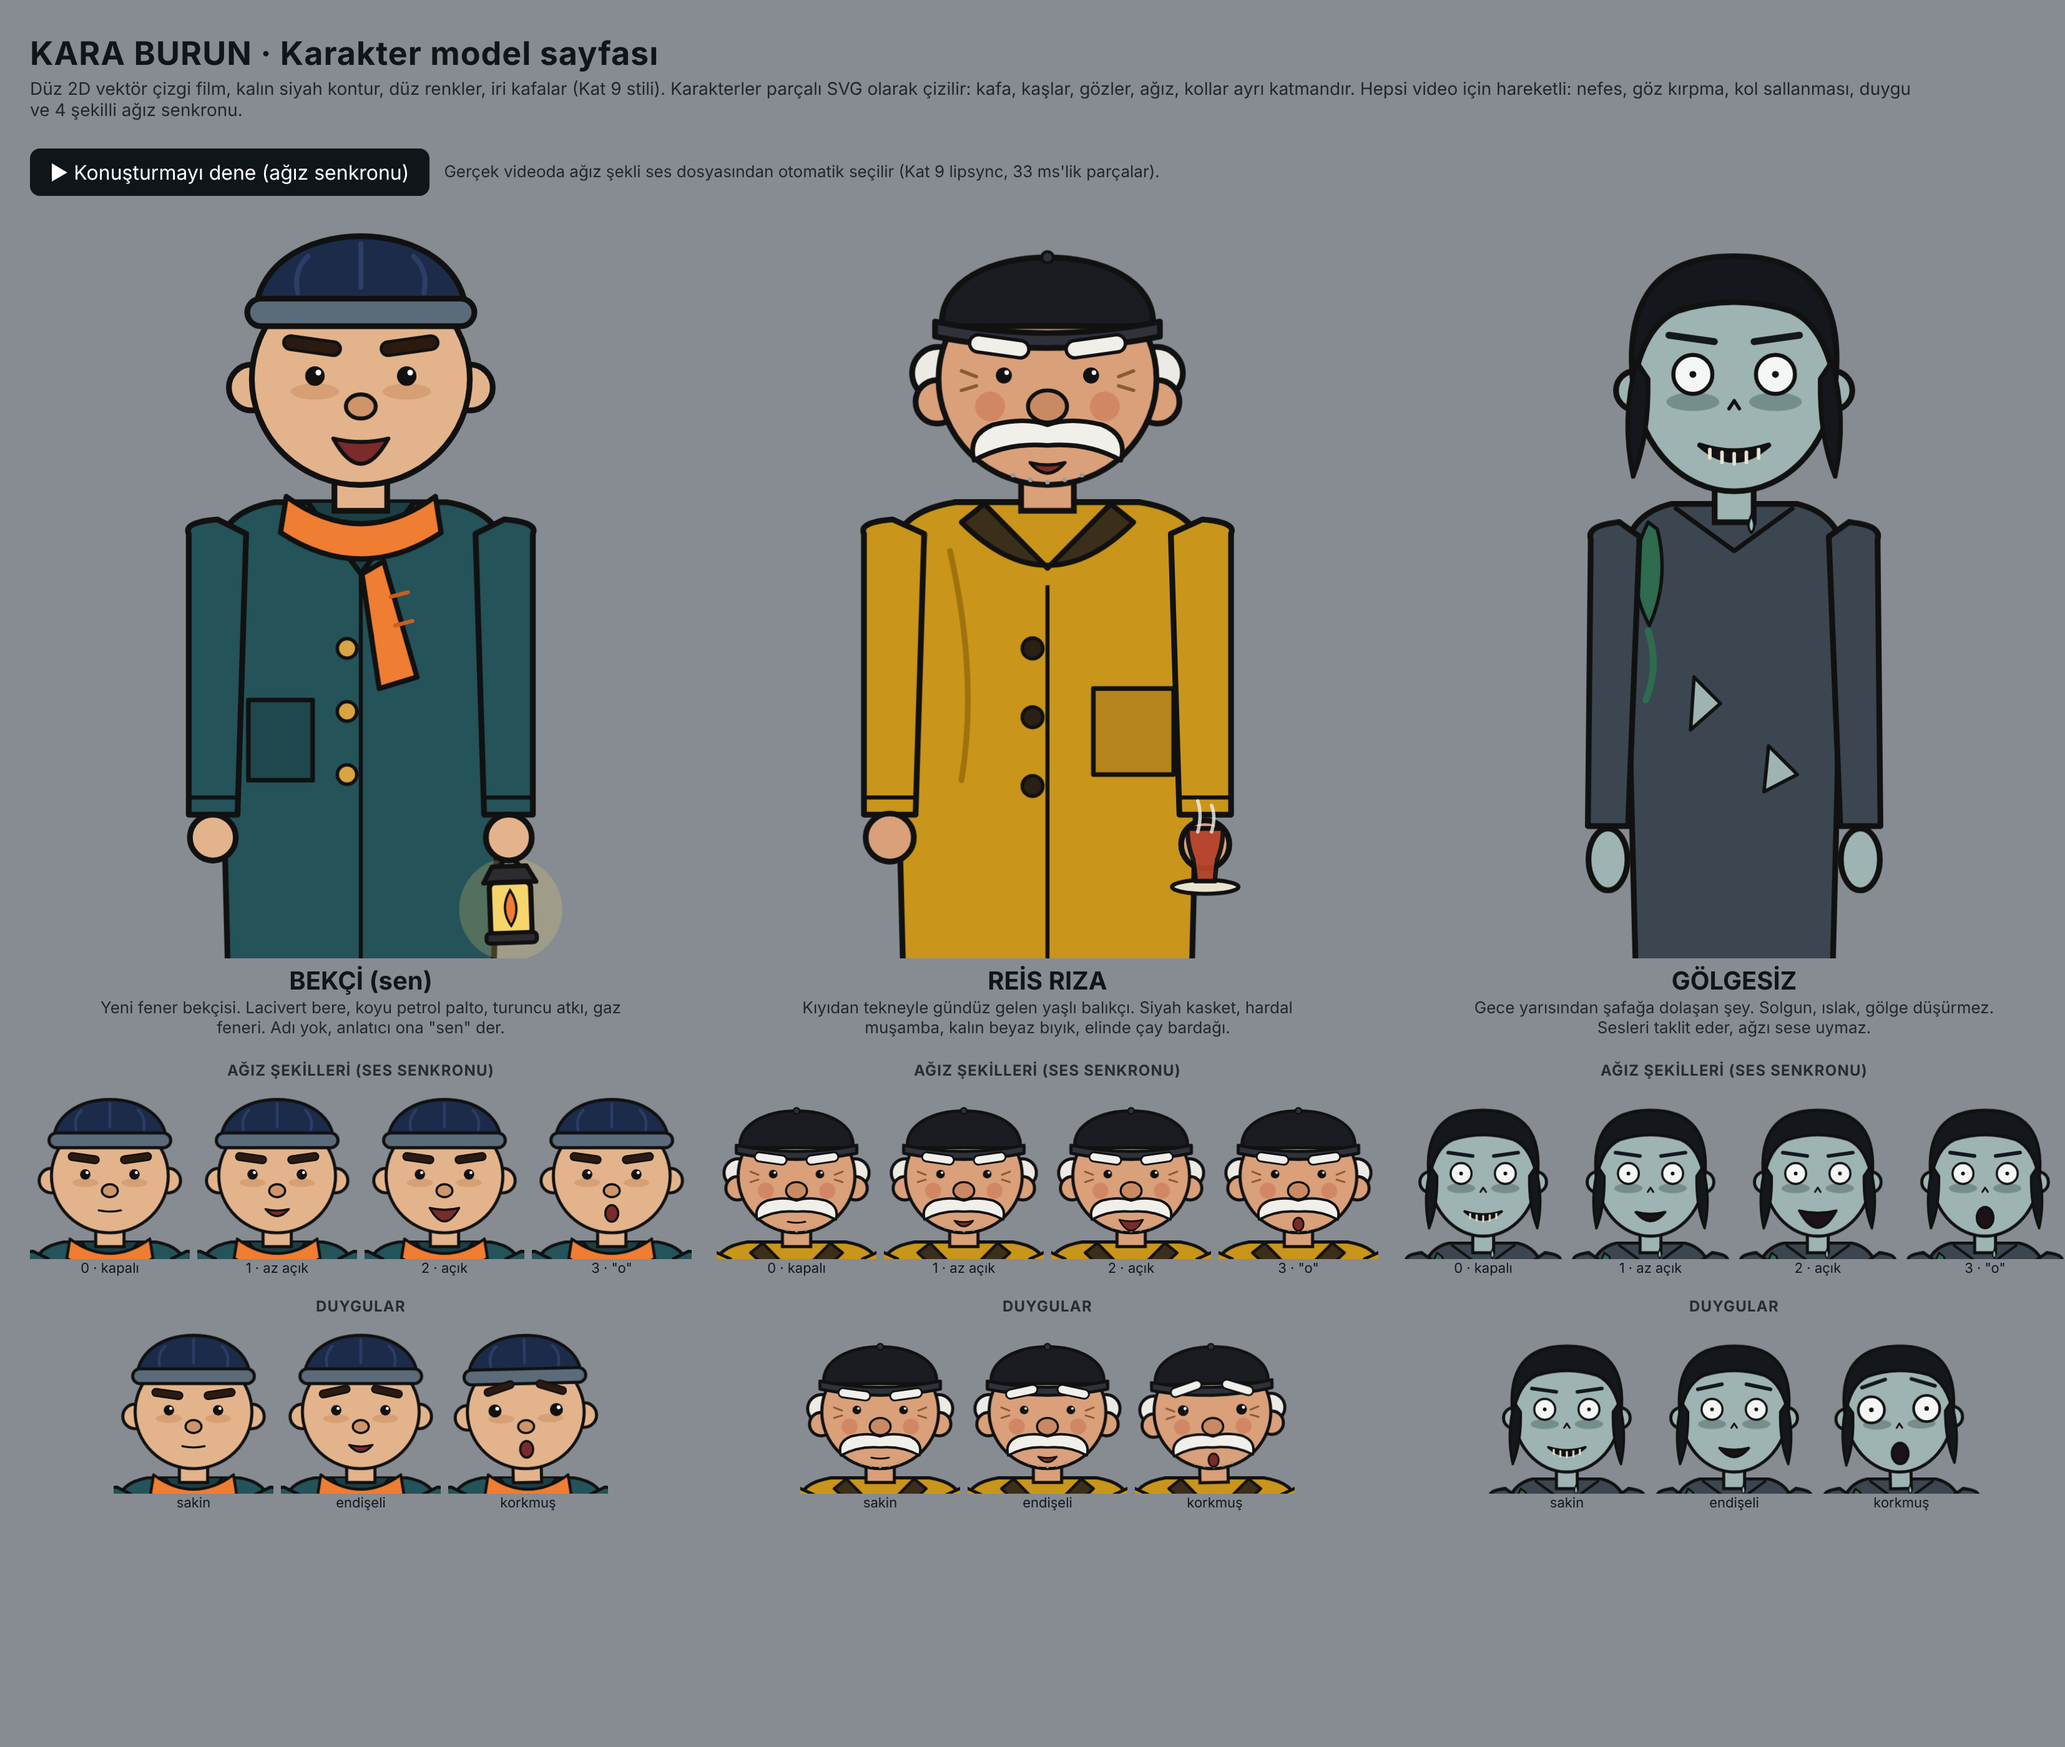
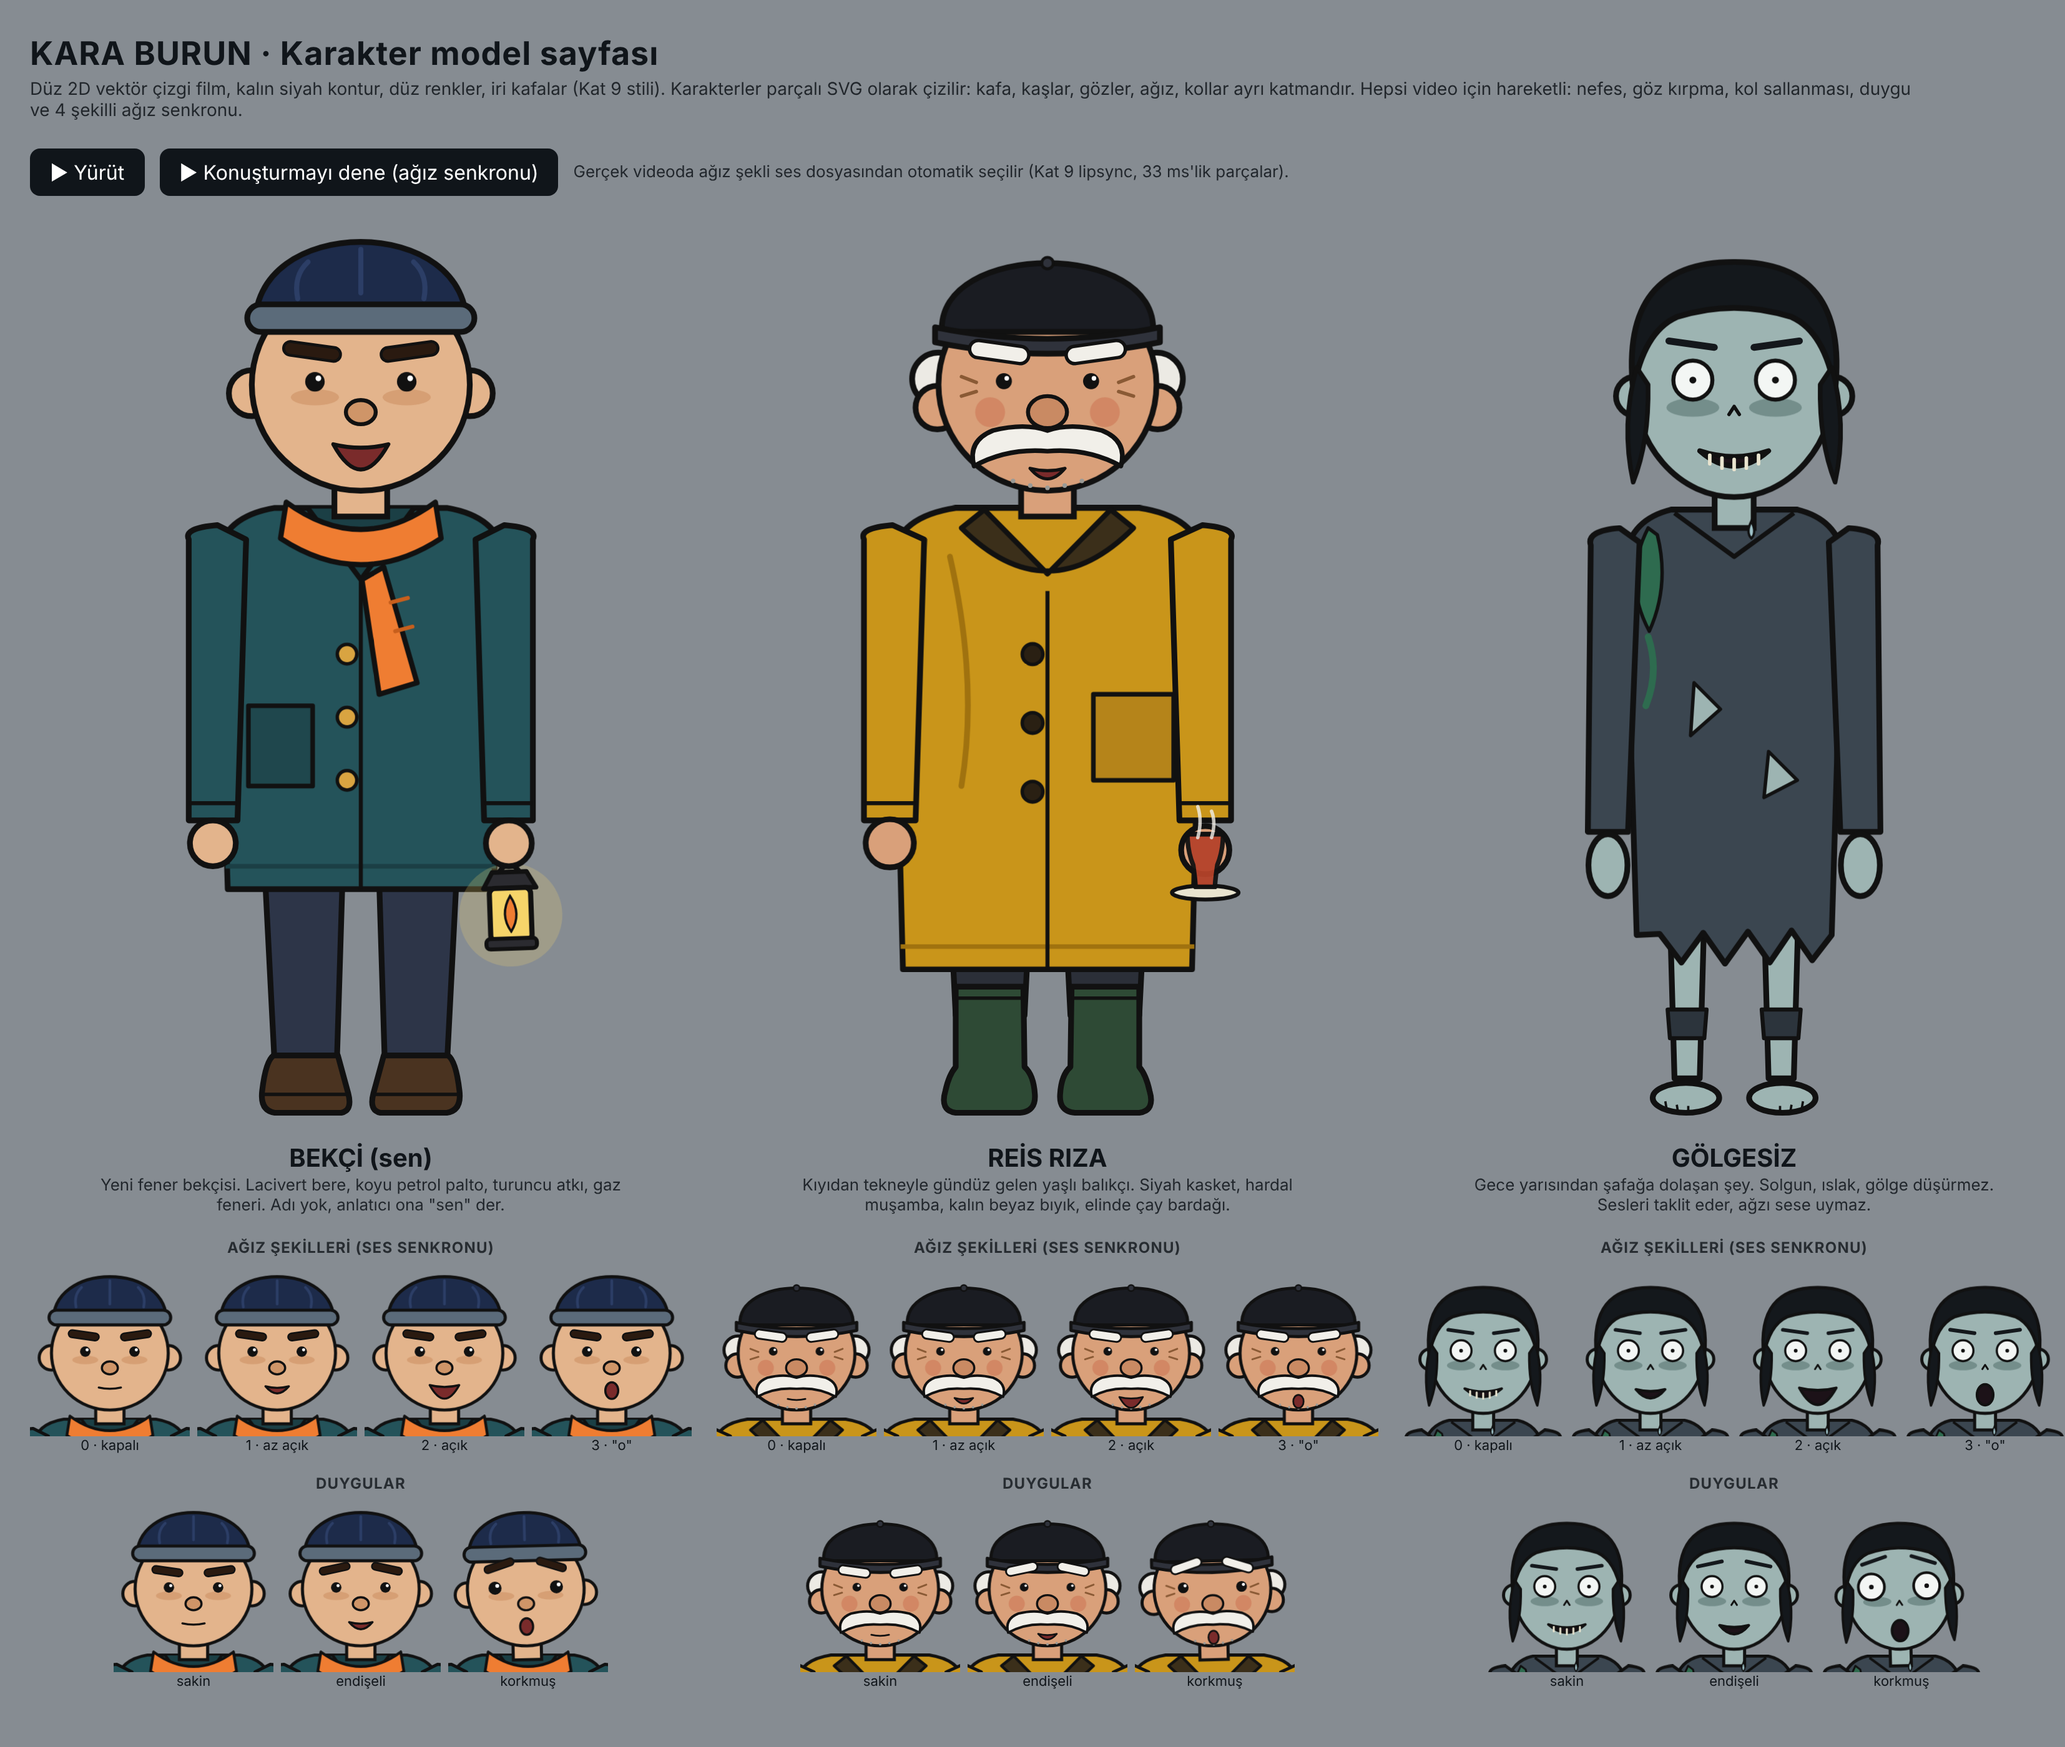
Kara Burun: karakterlere bacak, çizme ve yürüme hareketi ekle (tam boy)
Claude-Session: https://claude.ai/code/session_01LL2aFc3kDNuq4S6Wc9xmYN

diff --git a/sablon/rigs.js b/sablon/rigs.js
@@ -11,10 +11,15 @@ const MOUTH=(y,sc,fill,v0)=>`<g class="k-mouth" transform="translate(0 ${y}) sca
 const SKIN_B='#E3B48C',SKIN_R='#D9A07A',SKIN_G='#9db4b2';
 
 /* ---------- BEKÇİ (sen): lacivert bere, koyu petrol paltosu, turuncu atkı, gaz feneri ---------- */
-const BEKCI=`<g class="k-torso">
- <path d="M-230 1100 L-250 300 Q-240 230 -150 215 L150 215 Q240 230 250 300 L230 1100 Z" fill="#24535a" stroke="#111" stroke-width="10" stroke-linejoin="round"/>
+const BEKCI=`<g class="k-legL"><path d="M-170 800 L-30 800 L-42 1190 L-150 1190 Z" fill="#2d3548" stroke="#111" stroke-width="10" stroke-linejoin="round"/>
+ <path d="M-152 1170 Q-166 1180 -172 1232 Q-176 1266 -150 1270 L-34 1270 Q-14 1266 -22 1236 L-40 1170 Z" fill="#4a3320" stroke="#111" stroke-width="10" stroke-linejoin="round"/><path d="M-172 1238 L-22 1238" stroke="#111" stroke-width="6"/></g>
+<g class="k-legR"><path d="M170 800 L30 800 L42 1190 L150 1190 Z" fill="#2d3548" stroke="#111" stroke-width="10" stroke-linejoin="round"/>
+ <path d="M152 1170 Q166 1180 172 1232 Q176 1266 150 1270 L34 1270 Q14 1266 22 1236 L40 1170 Z" fill="#4a3320" stroke="#111" stroke-width="10" stroke-linejoin="round"/><path d="M172 1238 L22 1238" stroke="#111" stroke-width="6"/></g>
+<g class="k-torso">
+ <path d="M-232 880 L-250 300 Q-240 230 -150 215 L150 215 Q240 230 250 300 L232 880 Z" fill="#24535a" stroke="#111" stroke-width="10" stroke-linejoin="round"/>
+ <path d="M-236 840 L236 840" stroke="#1b3f45" stroke-width="8"/>
  <path d="M-92 216 L0 340 L92 216" fill="#1b3f45" stroke="#111" stroke-width="9" stroke-linejoin="round"/>
- <path d="M0 340 L0 1100" stroke="#111" stroke-width="7"/>
+ <path d="M0 340 L0 880" stroke="#111" stroke-width="7"/>
  <g fill="#d9a441" stroke="#111" stroke-width="6"><circle cx="-24" cy="470" r="17"/><circle cx="-24" cy="580" r="17"/><circle cx="-24" cy="690" r="17"/></g>
  <path d="M-196 560 L-84 560 L-84 700 L-196 700 Z" fill="#1f474d" stroke="#111" stroke-width="8" stroke-linejoin="round"/>
  <path d="M-130 205 Q0 300 130 205 L140 268 Q0 360 -140 268 Z" fill="#ef7d32" stroke="#111" stroke-width="9" stroke-linejoin="round"/>
@@ -48,10 +53,15 @@ const BEKCI=`<g class="k-torso">
 </g>`;
 
 /* ---------- REİS RIZA: siyah kasket, hardal muşamba, kalın beyaz bıyık, çay bardağı ---------- */
-const REIS=`<g class="k-torso">
- <path d="M-250 1100 L-270 300 Q-260 230 -160 215 L160 215 Q260 230 270 300 L250 1100 Z" fill="#c9951a" stroke="#111" stroke-width="10" stroke-linejoin="round"/>
+const REIS=`<g class="k-legL"><path d="M-170 900 L-30 900 L-40 1100 L-160 1100 Z" fill="#2b2f38" stroke="#111" stroke-width="10" stroke-linejoin="round"/>
+ <path d="M-160 1050 L-42 1050 L-40 1190 Q-24 1204 -22 1238 Q-20 1268 -48 1270 L-160 1270 Q-188 1266 -178 1232 Q-172 1204 -160 1190 Z" fill="#2e4a35" stroke="#111" stroke-width="10" stroke-linejoin="round"/><path d="M-160 1070 L-42 1070" stroke="#111" stroke-width="6"/></g>
+<g class="k-legR"><path d="M170 900 L30 900 L40 1100 L160 1100 Z" fill="#2b2f38" stroke="#111" stroke-width="10" stroke-linejoin="round"/>
+ <path d="M160 1050 L42 1050 L40 1190 Q24 1204 22 1238 Q20 1268 48 1270 L160 1270 Q188 1266 178 1232 Q172 1204 160 1190 Z" fill="#2e4a35" stroke="#111" stroke-width="10" stroke-linejoin="round"/><path d="M160 1070 L42 1070" stroke="#111" stroke-width="6"/></g>
+<g class="k-torso">
+ <path d="M-252 1020 L-270 300 Q-260 230 -160 215 L160 215 Q260 230 270 300 L252 1020 Z" fill="#c9951a" stroke="#111" stroke-width="10" stroke-linejoin="round"/>
+ <path d="M-256 980 L256 980" stroke="#a0720f" stroke-width="8"/>
  <path d="M-110 218 L0 330 L110 218 L150 250 Q0 400 -150 250 Z" fill="#3b2f1a" stroke="#111" stroke-width="9" stroke-linejoin="round"/>
- <path d="M0 360 L0 1100" stroke="#111" stroke-width="7"/>
+ <path d="M0 360 L0 1020" stroke="#111" stroke-width="7"/>
  <g fill="#2a2013" stroke="#111" stroke-width="6"><circle cx="-26" cy="470" r="18"/><circle cx="-26" cy="590" r="18"/><circle cx="-26" cy="710" r="18"/></g>
  <path d="M80 540 L220 540 L220 690 L80 690 Z" fill="#b5841a" stroke="#111" stroke-width="8" stroke-linejoin="round"/>
  <path d="M-170 300 Q-120 520 -150 700" fill="none" stroke="#a0720f" stroke-width="10" stroke-linecap="round"/>
@@ -86,8 +96,14 @@ const REIS=`<g class="k-torso">
 </g>`;
 
 /* ---------- GÖLGESİZ: solgun gri-yeşil, ıslak siyah saç, boş beyaz gözler, geniş sabit gülüş, damlayan su ---------- */
-const GOLGESIZ=`<g class="k-torso">
- <path d="M-170 1100 L-190 300 Q-180 235 -110 218 L110 218 Q180 235 190 300 L170 1100 Z" fill="#3b4650" stroke="#111" stroke-width="10" stroke-linejoin="round"/>
+const GOLGESIZ=`<g class="k-legL"><path d="M-112 920 L-52 920 L-60 1210 L-104 1210 Z" fill="${SKIN_G}" stroke="#111" stroke-width="10" stroke-linejoin="round"/>
+ <path d="M-116 1090 L-48 1090 L-52 1140 L-112 1140 Z" fill="#2c343c" stroke="#111" stroke-width="7" stroke-linejoin="round"/>
+ <ellipse cx="-84" cy="1244" rx="58" ry="26" fill="${SKIN_G}" stroke="#111" stroke-width="10"/><path d="M-120 1250 L-118 1262 M-100 1256 L-98 1268 M-80 1258 L-80 1270" stroke="#111" stroke-width="4"/></g>
+<g class="k-legR"><path d="M112 920 L52 920 L60 1210 L104 1210 Z" fill="${SKIN_G}" stroke="#111" stroke-width="10" stroke-linejoin="round"/>
+ <path d="M116 1090 L48 1090 L52 1140 L112 1140 Z" fill="#2c343c" stroke="#111" stroke-width="7" stroke-linejoin="round"/>
+ <ellipse cx="84" cy="1244" rx="58" ry="26" fill="${SKIN_G}" stroke="#111" stroke-width="10"/><path d="M120 1250 L118 1262 M100 1256 L98 1268 M80 1258 L80 1270" stroke="#111" stroke-width="4"/></g>
+<g class="k-torso">
+ <path d="M-170 960 L-190 300 Q-180 235 -110 218 L110 218 Q180 235 190 300 L170 960 L136 1004 L100 952 L62 1008 L24 954 L-16 1010 L-54 956 L-92 1008 L-130 958 Z" fill="#3b4650" stroke="#111" stroke-width="10" stroke-linejoin="round"/>
  <path d="M-70 520 L-24 566 L-76 612 Z" fill="${SKIN_G}" stroke="#111" stroke-width="6" stroke-linejoin="round"/>
  <path d="M60 640 L110 690 L52 720 Z" fill="${SKIN_G}" stroke="#111" stroke-width="6" stroke-linejoin="round"/>
  <path d="M-150 250 Q-196 340 -148 430 Q-112 350 -134 262 Z" fill="#2e6b4f" stroke="#111" stroke-width="6" stroke-linejoin="round"/>

diff --git a/karakterler/model-sayfasi.html b/karakterler/model-sayfasi.html
@@ -43,11 +43,21 @@ button{font:inherit;padding:9px 16px;border-radius:8px;border:0;background:#1015
 .karakter[data-mood="scared"] .k-eyes{transform:scale(1.25)}
 .karakter[data-mood="scared"] .k-head{animation:shake .11s linear infinite}
 .karakter .drip{animation:dripF 2.6s ease-in infinite}.karakter .d2{animation-delay:1.3s}
+/* yürüme: bacaklar kalçadan, kollar ters fazda sallanır */
+@keyframes walkA{0%,100%{transform:rotate(11deg)}50%{transform:rotate(-11deg)}}
+@keyframes walkB{0%,100%{transform:rotate(-11deg)}50%{transform:rotate(11deg)}}
+@keyframes bob{0%,100%{transform:translateY(0)}50%{transform:translateY(-10px)}}
+.karakter .k-legL{transform-origin:-100px 800px}.karakter .k-legR{transform-origin:100px 800px}
+.karakter.walk .k-legL{animation:walkA .8s ease-in-out infinite}
+.karakter.walk .k-legR{animation:walkB .8s ease-in-out infinite}
+.karakter.walk .k-armL{animation:walkB .8s ease-in-out infinite}
+.karakter.walk .k-armR{animation:walkA .8s ease-in-out infinite}
+.karakter.walk .k-torso,.karakter.walk .k-head{animation:bob .4s ease-in-out infinite}
 </style></head>
 <body><div class="wrap">
 <h1>KARA BURUN · Karakter model sayfası</h1>
 <p class="sub">Düz 2D vektör çizgi film, kalın siyah kontur, düz renkler, iri kafalar (Kat 9 stili). Karakterler parçalı SVG olarak çizilir: kafa, kaşlar, gözler, ağız, kollar ayrı katmandır. Hepsi video için hareketli: nefes, göz kırpma, kol sallanması, duygu ve 4 şekilli ağız senkronu.</p>
-<div class="ctl"><button id="konus">▶ Konuşturmayı dene (ağız senkronu)</button><span style="font-size:13px;opacity:.85">Gerçek videoda ağız şekli ses dosyasından otomatik seçilir (Kat 9 lipsync, 33 ms'lik parçalar).</span></div>
+<div class="ctl"><button id="yuru">▶ Yürüt</button><button id="konus">▶ Konuşturmayı dene (ağız senkronu)</button><span style="font-size:13px;opacity:.85">Gerçek videoda ağız şekli ses dosyasından otomatik seçilir (Kat 9 lipsync, 33 ms'lik parçalar).</span></div>
 <div class="grid" id="grid"></div>
 </div>
 <script src="../sablon/rigs.js"></script>
@@ -58,7 +68,7 @@ const KAR=[
  {k:'reis',ad:'REİS RIZA',not:'Kıyıdan tekneyle gündüz gelen yaşlı balıkçı. Siyah kasket, hardal muşamba, kalın beyaz bıyık, elinde çay bardağı.'},
  {k:'golgesiz',ad:'GÖLGESİZ',not:'Gece yarısından şafağa dolaşan şey. Solgun, ıslak, gölge düşürmez. Sesleri taklit eder, ağzı sese uymaz.'}
 ];
-const VB_BIG='-370 -280 740 1290',VB_HEAD='-260 -290 520 560';
+const VB_BIG='-370 -290 740 1600',VB_HEAD='-260 -290 520 560';
 function svg(vb){const s=document.createElementNS(ns,'svg');s.setAttribute('viewBox',vb);return s}
 function sec(t){const d=document.createElement('div');d.className='etiket';d.textContent=t;return d}
 const big=[];
@@ -85,5 +95,7 @@ document.getElementById('konus').onclick=function(){
  if(konus){timer=setInterval(()=>{big.forEach((r,i)=>{if(i===2){Rigs.mouth(r,0);return}const x=Math.random();Rigs.mouth(r,x<.25?0:x<.55?1:x<.85?2:3)})},110)}
  else{clearInterval(timer);big.forEach(r=>Rigs.mouth(r,0))}
 };
+let yuruyor=false;
+document.getElementById('yuru').onclick=function(){yuruyor=!yuruyor;this.textContent=yuruyor?'⏸ Durdur':'▶ Yürüt';big.forEach(r=>r.classList.toggle('walk',yuruyor))};
 window.__demoAgiz=(a)=>{big.forEach((r,i)=>Rigs.mouth(r,a[i]))};
 </script></body></html>
